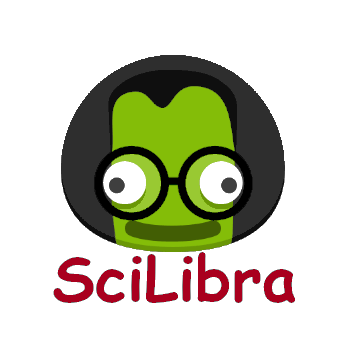
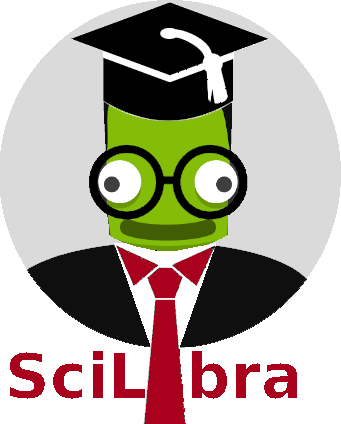
New Update

diff --git a/SciLibra.py b/SciLibra.py
@@ -38,7 +38,10 @@ from kivy.uix.actionbar import ActionButton
 from time import sleep
 from kivy.uix.checkbox import CheckBox
 from kivy.clock import Clock
-        
+from kivy.config import Config
+
+Config.set('kivy','window_icon','icon.png')
+
 
 ################# Local Imports #####################
 import librarydatabase
@@ -1103,6 +1106,9 @@ class SciLibra(App):
     def build(self):
         # create a database
         # create_database()
+        self.icon = 'icon.png'
+        # change icon
+
         return SciLibraScreenManager()
 
 if __name__ == '__main__':
